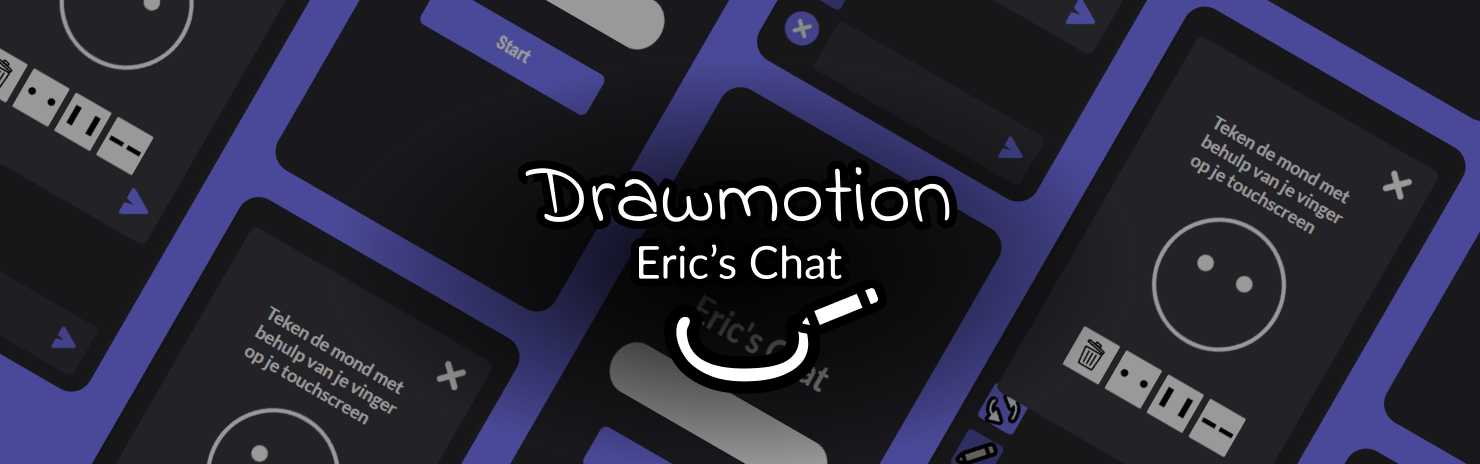
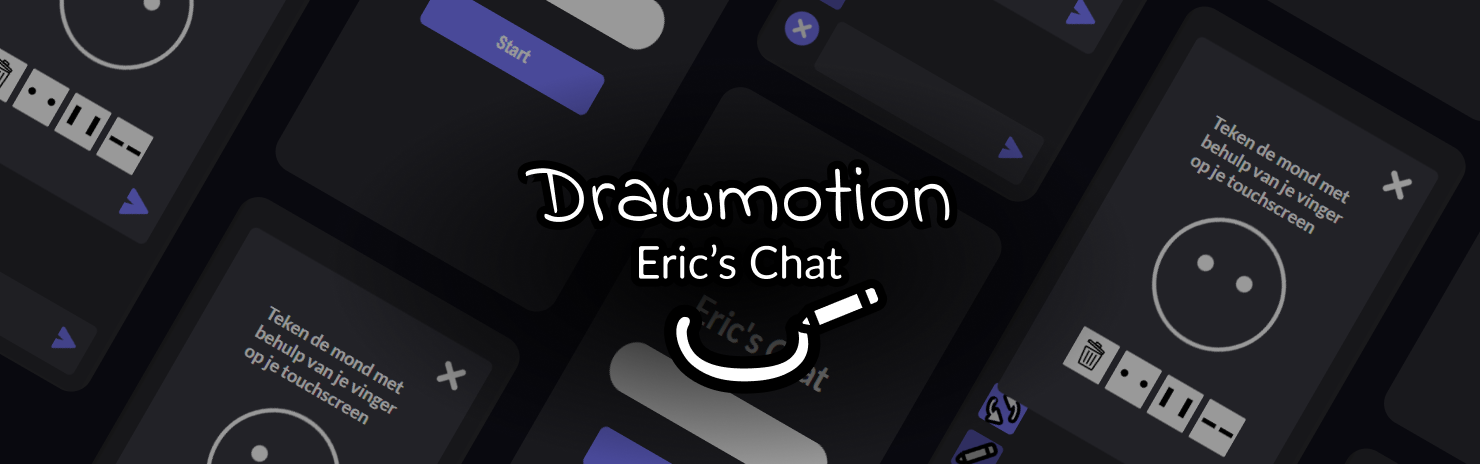
added cover

Changed region(s): [[0.4041, 0.0, 1.0, 1.0], [0.0, 0.0, 0.4351, 1.0]]

diff --git a/README.md b/README.md
@@ -1,6 +1,6 @@
 # Drawmotion | Eric's Chat
 
-![cover](/images/cover.png)
+![cover](/images/cover2.png)
 
 # Table of contents
 
